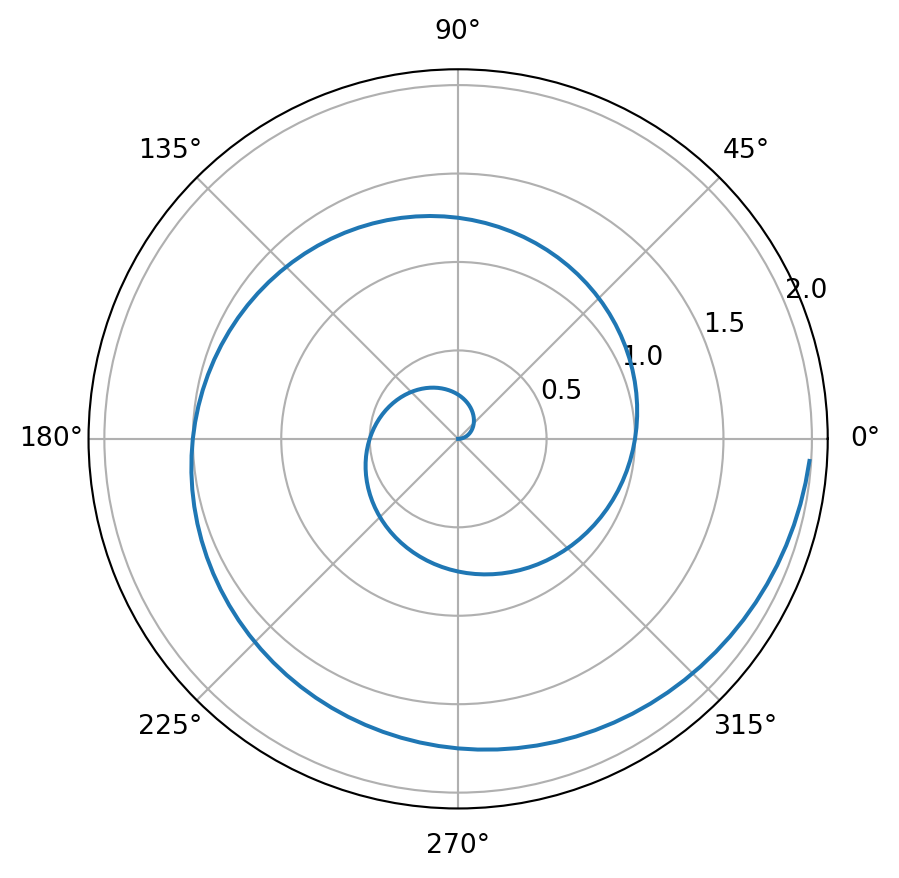
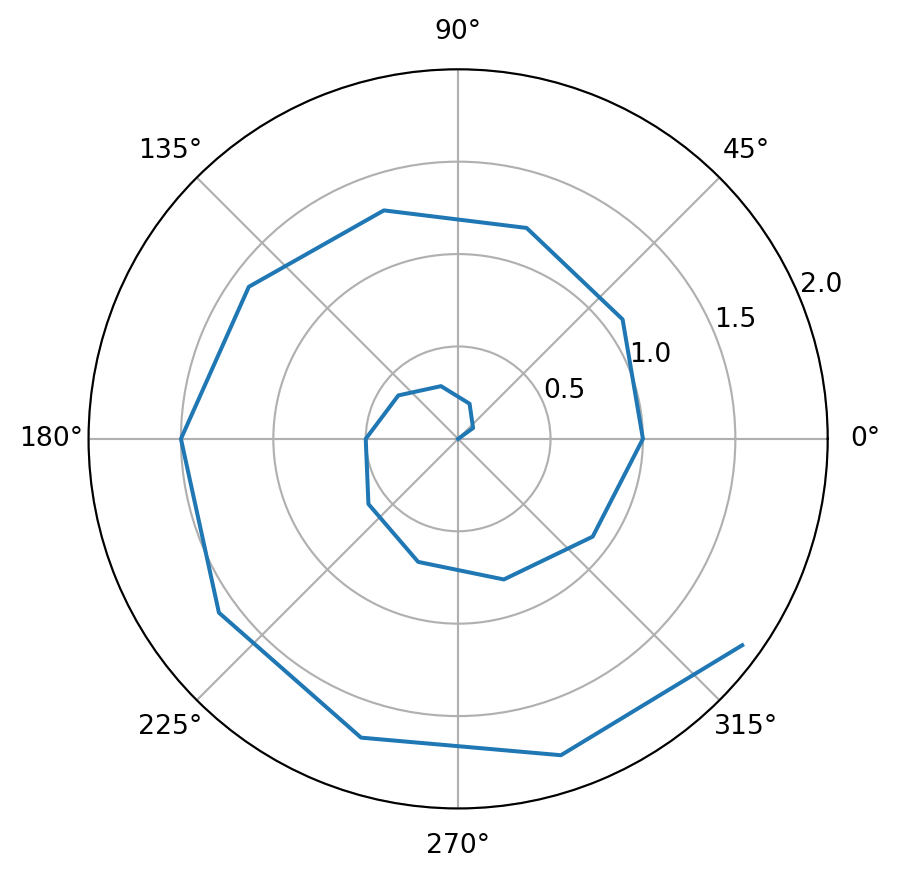
change graph slightly

diff --git a/docs/index.html b/docs/index.html
@@ -189,7 +189,7 @@ code span.wa { color: #60a0b0; font-weight: bold; font-style: italic; } /* Warni
 <div class="sourceCode cell-code" id="cb1"><pre class="sourceCode python code-with-copy"><code class="sourceCode python"><span id="cb1-1"><a href="#cb1-1" aria-hidden="true" tabindex="-1"></a><span class="im">import</span> numpy <span class="im">as</span> np</span>
 <span id="cb1-2"><a href="#cb1-2" aria-hidden="true" tabindex="-1"></a><span class="im">import</span> matplotlib.pyplot <span class="im">as</span> plt</span>
 <span id="cb1-3"><a href="#cb1-3" aria-hidden="true" tabindex="-1"></a></span>
-<span id="cb1-4"><a href="#cb1-4" aria-hidden="true" tabindex="-1"></a>r <span class="op">=</span> np.arange(<span class="dv">0</span>, <span class="dv">2</span>, <span class="fl">0.01</span>)</span>
+<span id="cb1-4"><a href="#cb1-4" aria-hidden="true" tabindex="-1"></a>r <span class="op">=</span> np.arange(<span class="dv">0</span>, <span class="dv">2</span>, <span class="fl">0.1</span>)</span>
 <span id="cb1-5"><a href="#cb1-5" aria-hidden="true" tabindex="-1"></a>theta <span class="op">=</span> <span class="dv">2</span> <span class="op">*</span> np.pi <span class="op">*</span> r</span>
 <span id="cb1-6"><a href="#cb1-6" aria-hidden="true" tabindex="-1"></a>fig, ax <span class="op">=</span> plt.subplots(</span>
 <span id="cb1-7"><a href="#cb1-7" aria-hidden="true" tabindex="-1"></a>  subplot_kw <span class="op">=</span> {<span class="st">'projection'</span>: <span class="st">'polar'</span>} </span>
